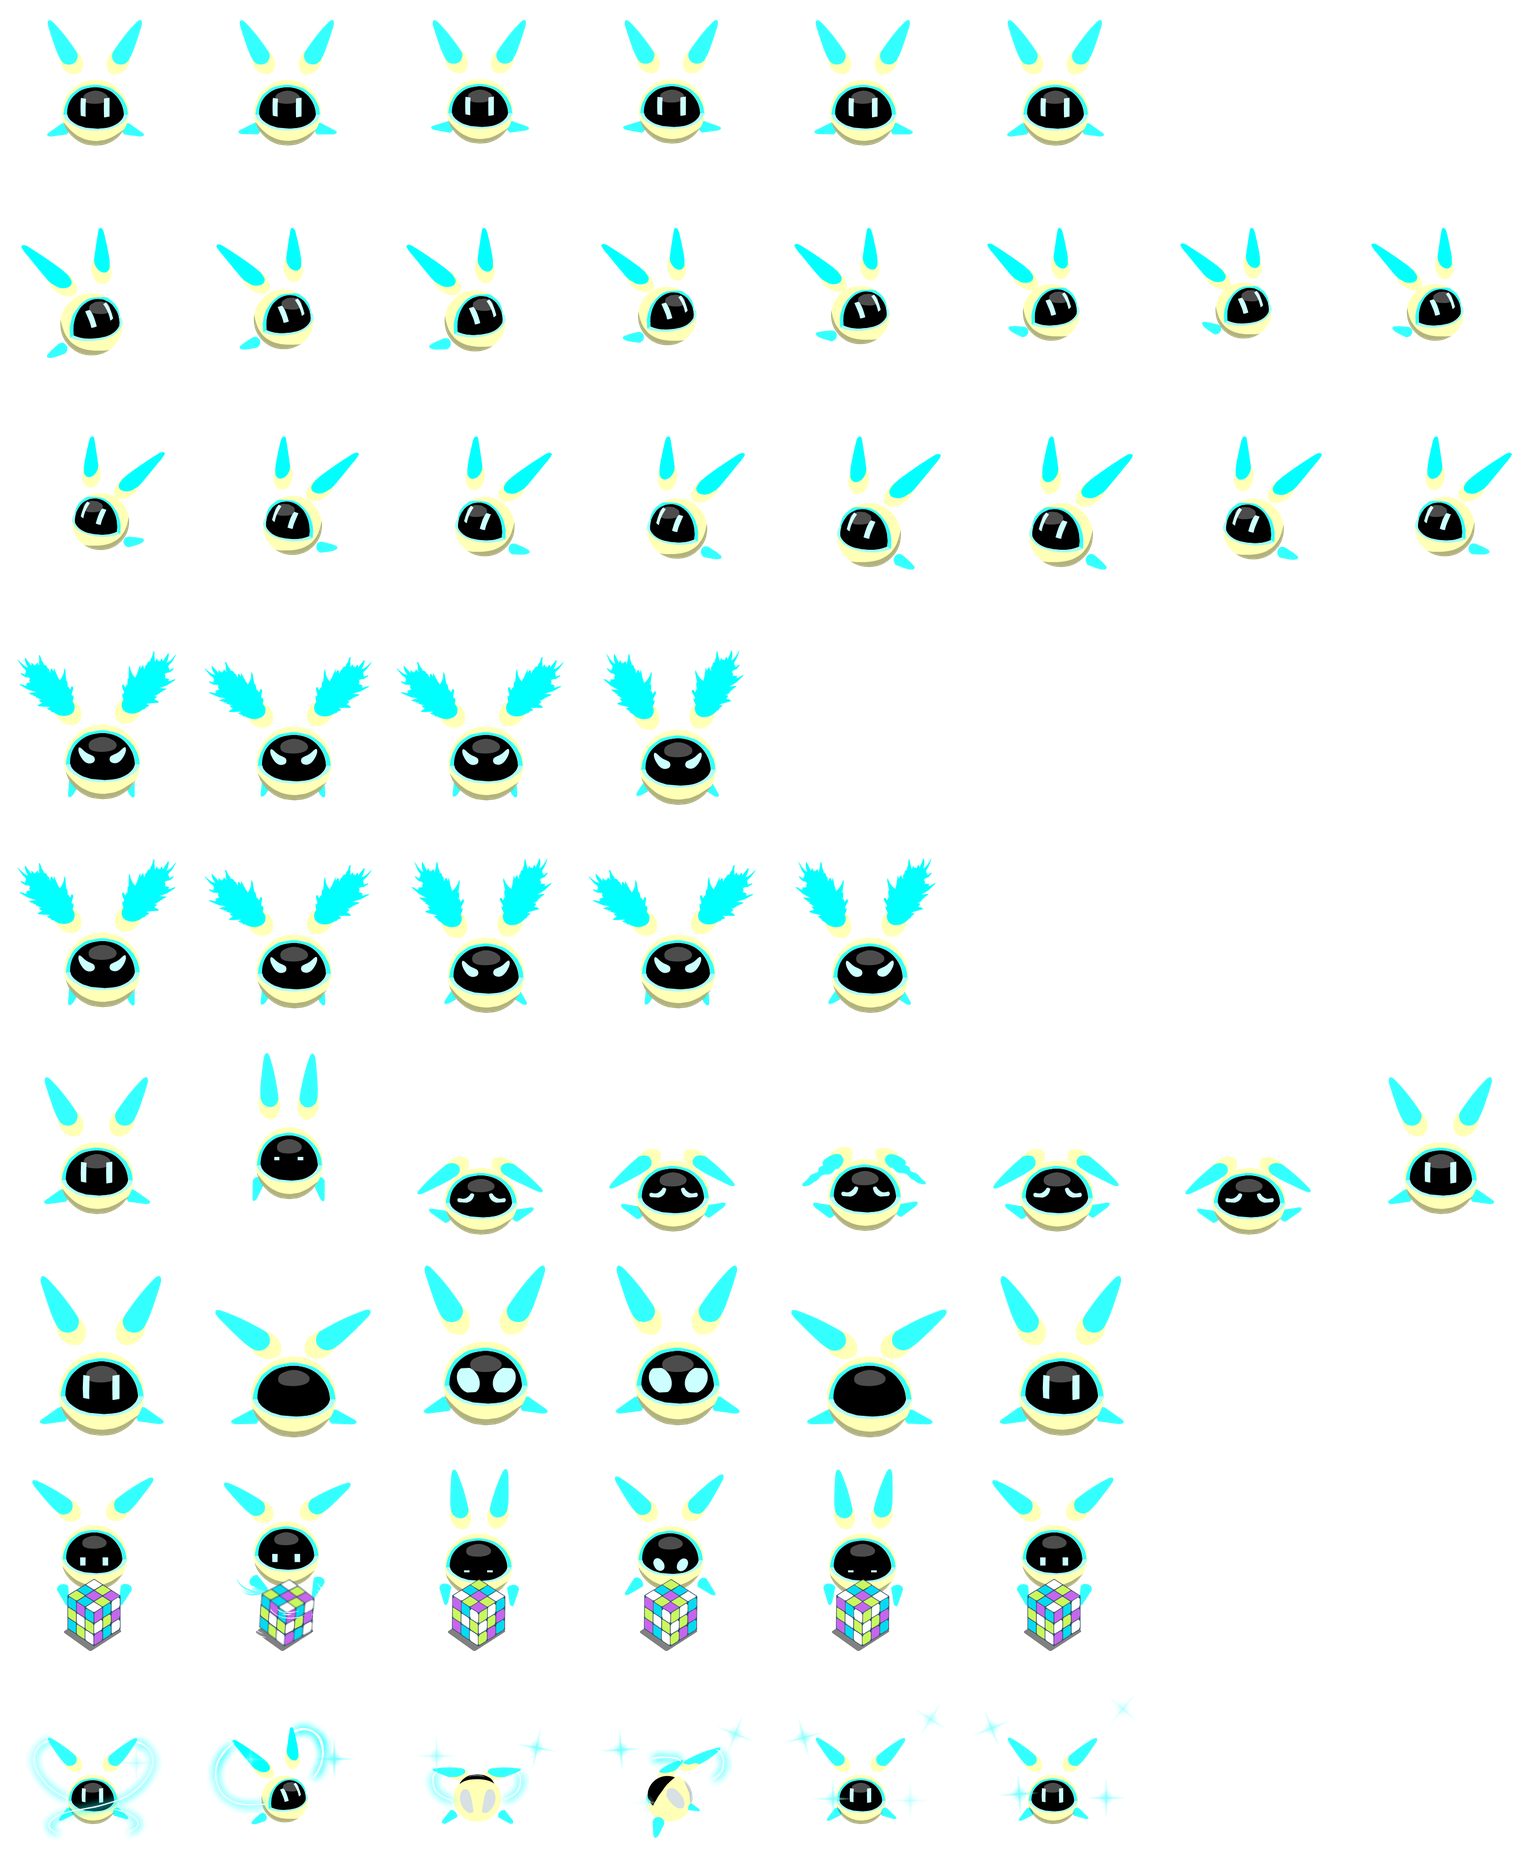
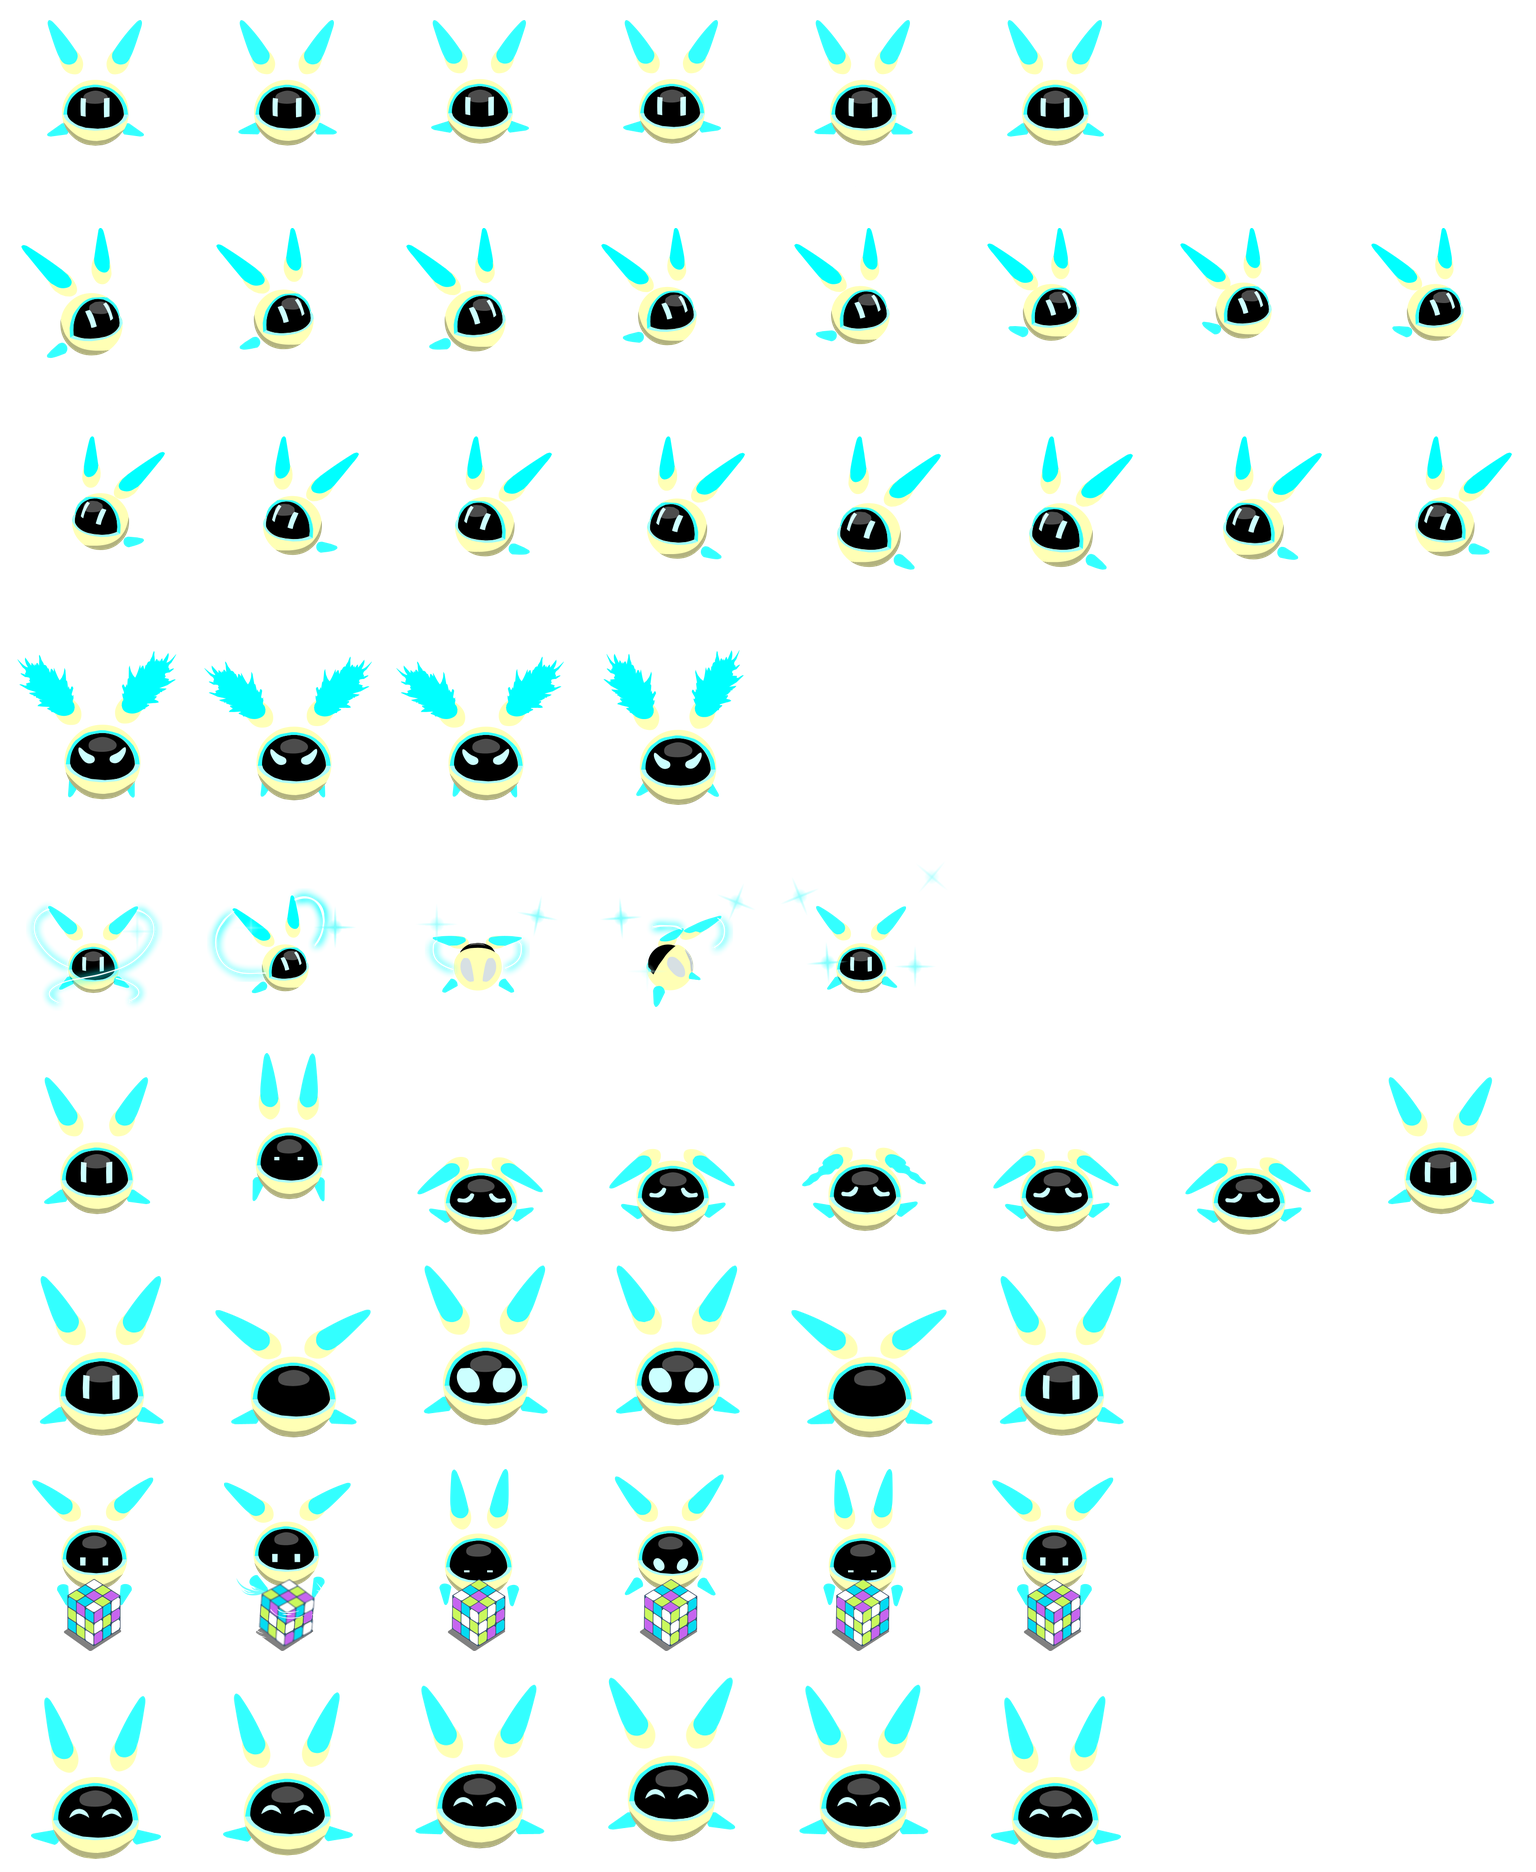
Use summon hover and native happy review for Super NoNo

diff --git a/index.html b/index.html
@@ -25,4 +25,4 @@
     <section class="install" id="ram-install"><details><summary>安装说明</summary><div class="install-content"><ol><li><span>1</span><div><h3>解压宠物包</h3><p>得到一个含有 <code>pet.json</code> 和 <code>spritesheet.png</code> 的拉姆文件夹。</p></div></li><li><span>2</span><div><h3>放进 Codex 的 pets 文件夹</h3><p>macOS / Linux：<code>~/.codex/pets/</code><br>Windows：<code>%USERPROFILE%\.codex\pets\</code><br>若设置过 <code>CODEX_HOME</code>，请使用它下面的 <code>pets</code> 文件夹。</p></div></li><li><span>3</span><div><h3>在设置里选中它</h3><p>打开 Codex 的「设置 → Pets / 宠物」，刷新列表后选择拉姆。输入 <code>/pet</code> 唤出它。</p></div></li></ol><button class="copy-button" id="ram-copy-prompt">复制安装提示词</button><p class="install-note">也可以将下载的精灵图上传到支持「Upload pet」的宠物界面。<a href="https://learn.chatgpt.com/docs/pets" target="_blank" rel="noreferrer">官方说明 ↗</a></p></div></details></section>
 </div><div id="nono-panel" role="tabpanel" aria-labelledby="tab-nono" hidden><section class="workbench" aria-label="超能NoNo宠物预览"><div class="preview-panel" id="nono-preview-panel"><div class="preview-top"><span class="caps">安装效果预览</span><button id="nono-background" class="small-button" aria-label="切换深浅预览背景">◐ <span>深色背景</span></button></div><div class="pet-stage"><span class="pet-label" id="nono-pet-label">超能 NoNo</span><canvas id="nono-pet" width="576" height="624" role="img" aria-label="超能NoNo动画预览"></canvas></div><div class="preview-bottom"><span><i class="live-dot"></i><span id="nono-state-label">待机中</span></span><button id="nono-pause" class="small-button" aria-pressed="false">Ⅱ 暂停动画</button></div></div>
 <div class="controls nono-controls"><div class="section-heading"><h2>形态</h2></div><div class="forms nono-forms" role="group" aria-label="NoNo版本"><button class="form" data-form="nono-normal" aria-pressed="false"><strong>普通 NoNo</strong></button><button class="form active" data-form="nono" aria-pressed="true"><strong>超能 NoNo</strong></button><button class="form" data-form="nono-annual" aria-pressed="false"><strong>至尊 NoNo</strong></button></div><div class="divider"></div><div id="nono-colors-section"><div class="section-heading"><h2>颜色</h2></div><div class="colors" id="nono-colors" role="group" aria-label="NoNo颜色"></div><div class="divider"></div></div><div class="section-heading"><h2>动作</h2><a class="action-library-link" href="ram-library.html">查看原动作 ↗</a></div><div class="states" role="group" aria-label="预览动作"><button data-state="idle" class="selected" aria-pressed="true">待命</button><button data-state="waving" aria-pressed="false">开机</button><button data-state="jumping" aria-pressed="false">惊讶</button><button data-state="running" aria-pressed="false">玩魔方</button><button data-state="waiting" aria-pressed="false">充电</button><button data-state="review" aria-pressed="false">开心</button><button data-state="running-left" aria-pressed="false">向左</button><button data-state="running-right" aria-pressed="false">向右</button><button data-state="failed" aria-pressed="false">悲哀</button></div><p class="hint" style="margin-top:12px">动作播放三遍后回到待机，点击动作可重播。</p><div class="download-area"><div class="install-actions"><button class="command-action" id="nono-copy-command" aria-label="复制安装命令"><span class="command-header"><span class="terminal-title">命令安装 </span><span class="copy-feedback"><span class="copy-status" role="status" aria-live="polite">复制</span><svg class="copy-icon" viewBox="0 0 20 20" width="16" height="16" fill="none" stroke="currentColor" stroke-width="1.4" aria-hidden="true"><rect x="7" y="7" width="10" height="11" rx="2"/><path d="M12 4V3a1 1 0 0 0-1-1H4a2 2 0 0 0-2 2v8a1 1 0 0 0 1 1h1"/></svg></span></span><span class="command-line"><span class="shell-prompt" aria-hidden="true">$</span><code id="nono-install-command">npx --yes github:mli55/taomi-codex-pets --pet nono</code></span></button><button class="download" id="nono-download" disabled><span>↓</span> <span>下载 ZIP</span> </button></div><div class="download-meta"><span></span><button class="text-button" id="nono-download-png" disabled>下载 PNG</button></div><p id="nono-download-status" class="download-status" role="status"></p></div></div></section>    <section class="install" id="nono-install"><details><summary>安装说明</summary><div class="install-content"><ol><li><span>1</span><div><h3>解压宠物包</h3><p>得到一个含有 <code>pet.json</code> 和 <code>spritesheet.png</code> 的NoNo文件夹。</p></div></li><li><span>2</span><div><h3>放进 Codex 的 pets 文件夹</h3><p>macOS / Linux：<code>~/.codex/pets/</code><br>Windows：<code>%USERPROFILE%\.codex\pets\</code><br>若设置过 <code>CODEX_HOME</code>，请使用它下面的 <code>pets</code> 文件夹。</p></div></li><li><span>3</span><div><h3>在设置里选中它</h3><p>打开 Codex 的「设置 → Pets / 宠物」，刷新列表后选择NoNo。输入 <code>/pet</code> 唤出它。</p></div></li></ol><button class="copy-button" id="nono-copy-prompt">复制安装提示词</button><p class="install-note">也可以将下载的精灵图上传到支持「Upload pet」的宠物界面。<a href="https://learn.chatgpt.com/docs/pets" target="_blank" rel="noreferrer">官方说明 ↗</a></p></div></details></section>
-</div></main><footer><p>非官方项目 · 游戏素材版权归原权利方所有</p></footer><script src="pet-playback.js?v=animation-review2" defer></script><script src="ram.js?v=animation-review2" defer></script><script src="nono.js?v=all-nono-native-idle1" defer></script><script src="app.js" defer></script></body></html>
+</div></main><footer><p>非官方项目 · 游戏素材版权归原权利方所有</p></footer><script src="pet-playback.js?v=animation-review2" defer></script><script src="ram.js?v=animation-review2" defer></script><script src="nono.js?v=nono-native-eyes2" defer></script><script src="app.js" defer></script></body></html>

diff --git a/nono.js b/nono.js
@@ -16,6 +16,7 @@ function syncActions(){
 }
 const $ = id => document.getElementById('nono-'+id);
 const canvas = $('pet'), ctx = canvas.getContext('2d');
+ctx.imageSmoothingEnabled=false;
 const sheet = document.createElement('canvas'); sheet.width=1536; sheet.height=1872;
 const sheetCtx=sheet.getContext('2d',{willReadFrequently:true});
 let form='nono', color='original', state='idle', original=null, currentFrame=0, playbackRow=0, loadedForm=null, generation=0;
@@ -59,7 +60,7 @@ async function loadForm(next){
   try{
     let images=imageCache.get(assetKey);
     if(!images){
-      images=await Promise.all([assetKey+'.png'].map(async file=>{const image=new Image();image.src='assets/'+file+'?v=all-nono-native-idle1';await image.decode();if(image.naturalWidth!==1536||image.naturalHeight!==1872)throw Error('宠物图集尺寸不正确');return image;}));
+      images=await Promise.all([assetKey+'.png'].map(async file=>{const image=new Image();image.src='assets/'+file+'?v=nono-native-eyes2';await image.decode();if(image.naturalWidth!==1536||image.naturalHeight!==1872)throw Error('宠物图集尺寸不正确');return image;}));
       imageCache.set(assetKey,images);
     }
     if(request!==generation)return;
